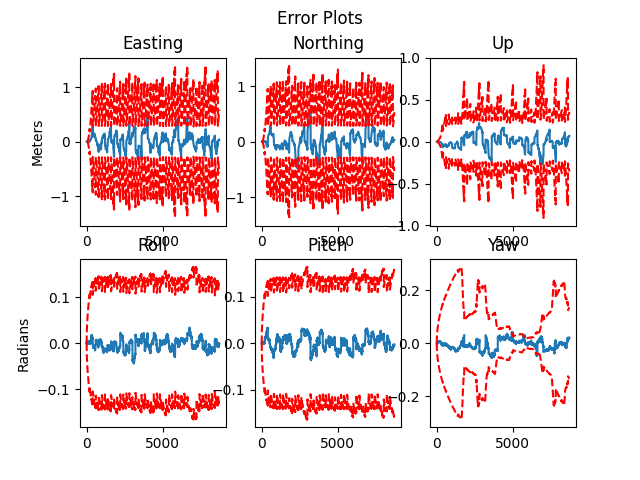
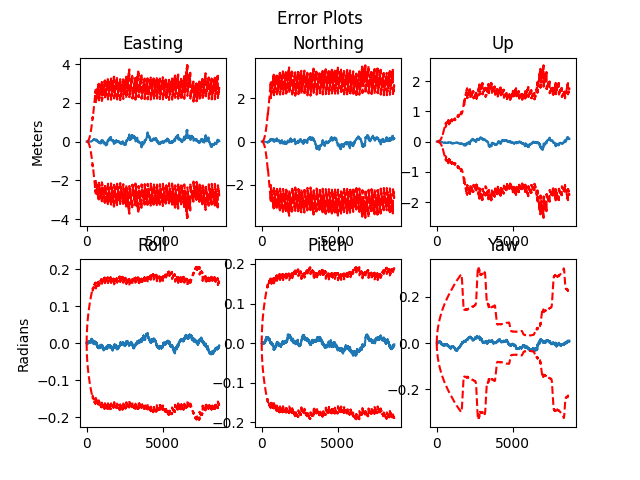
part 1 - completed

diff --git a/es_ekf.py b/es_ekf.py
@@ -98,8 +98,8 @@ lidar.data = (C_li @ lidar.data.T).T + t_i_li
 ################################################################################################
 var_imu_f = 0.10
 var_imu_w = 0.25
-var_gnss = 0.01
-var_lidar = 1.00
+var_gnss = 1.0
+var_lidar = 10.0
 R_GNSS = var_gnss * np.eye(3)
 R_LIDAR = var_lidar * np.eye(3)
 
